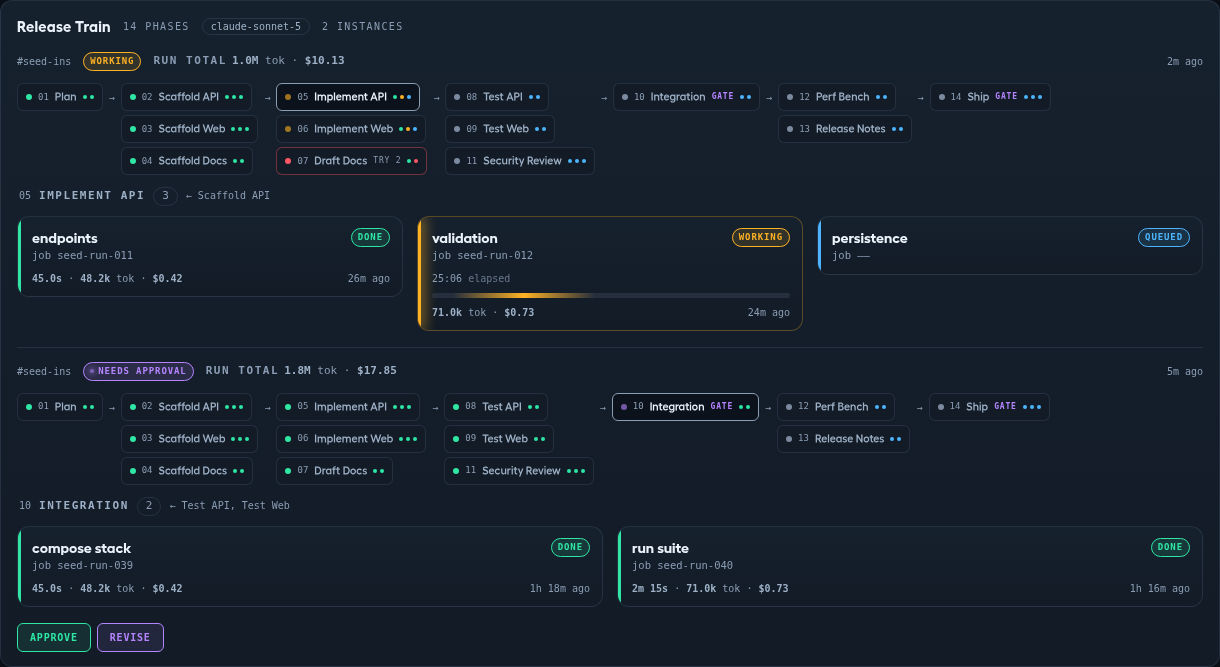
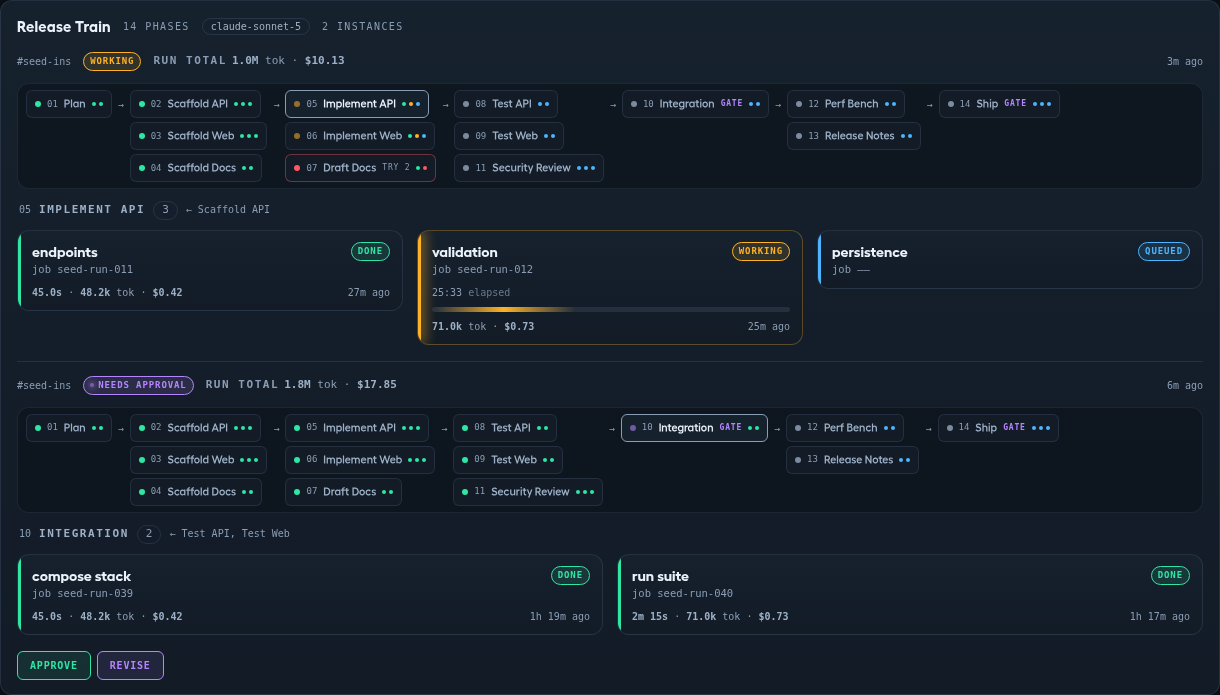
Pack the phase rail into row tiles
A bare CSS wrap breaks the rail wherever it runs out of width and leaves
the break invisible — a continued chain read as chips floating loose
under the first line, with nothing marking where one row ended and the
next began.

The rail now measures its stages and packs them into explicit rows
(pure, tested packing in railLayout.ts), so each row is a real element:
a bordered tile whose edge is the row divider, ending in a faded arrow
when the chain continues in the tile below. Packing happens in a layout
effect before paint, re-runs on container resize and webfont arrival,
and an unmeasured container (first render, jsdom) keeps the single-line
rail. Flex wrap stays on inside each tile as a safety net, so a
measurement a few pixels tight wraps within the tile instead of
clipping.

Claude-Session: https://claude.ai/code/session_015F2CbqX6bwNWc91Ppo2kkJ

diff --git a/web/src/views/PhaseRail.tsx b/web/src/views/PhaseRail.tsx
@@ -1,11 +1,13 @@
+import { useCallback, useEffect, useLayoutEffect, useRef, useState } from "react";
 import type { DsStatus, PhasePill } from "../ds";
 import { DURATION, STATUS, useSyncedDelay } from "../ds";
 import { graphColumns, graphEdges } from "./phaseGraphLayout";
+import { packStages, packedRows } from "./railLayout";
 
 /**
  * The pipeline's shape as the board's overhead: one compact chip per phase,
- * grouped into stages (phases that can run at the same time), in a strip that
- * wraps instead of scrolling.
+ * grouped into stages (phases that can run at the same time), packed into
+ * rows that are each a tile of their own.
  *
  * This is the compression that keeps a 14-phase pipeline to one card-height:
  * the rail carries every phase's status, gate, attempt and step progress at a
@@ -17,6 +19,12 @@ import { graphColumns, graphEdges } from "./phaseGraphLayout";
  * a branching pipeline still reads as branching. Instances that carry no
  * dependency edges at all (authored before Weave) fall back to one stage per
  * phase in order — absent edges mean "unknown", not "all parallel".
+ *
+ * Rows are packed by measurement rather than CSS wrapping: a flex wrap breaks
+ * the line wherever it runs out of width and leaves the break invisible, which
+ * on a long real-world chain read as chips floating loose. Packing the stages
+ * ourselves lets every row be a real element — a bordered tile whose edge *is*
+ * the row divider, with a trailing arrow when the chain continues below.
  */
 
 const PHASE_DOT: Record<DsStatus, string> = {
@@ -28,6 +36,13 @@ const PHASE_DOT: Record<DsStatus, string> = {
   await: "bg-await",
   stopped: "bg-idle",
 };
+
+/** Width the chain costs between two stages on one row: the h-7 arrow box
+ *  (~16px glyph) plus the row's gap on each side. Slightly generous — a row
+ *  that measures a few pixels tight wraps inside its tile instead of clipping. */
+const JOIN_PX = 30;
+/** Row tile horizontal padding + borders, subtracted from the container width. */
+const ROW_CHROME_PX = 22;
 
 function chipTitle(pill: PhasePill, index: number, needNames: string[]): string {
   const bits = [`${index + 1}. ${pill.name} — ${STATUS[pill.status].label.toLowerCase()}`];
@@ -58,10 +73,10 @@ function PhaseChip({
   // Tinted borders only for the states that demand attention while unselected.
   const border =
     pill.status === "failed"
-      ? "border-fail/40 bg-surface hover:bg-ground-2"
+      ? "border-fail/40 bg-surface hover:bg-surface-2"
       : pill.status === "await"
-        ? "border-await/40 bg-surface hover:bg-ground-2"
-        : "border-line bg-surface hover:border-ink-faint/60 hover:bg-ground-2";
+        ? "border-await/40 bg-surface hover:bg-surface-2"
+        : "border-line bg-surface hover:border-ink-faint/60 hover:bg-surface-2";
   return (
     <button
       type="button"
@@ -69,10 +84,10 @@ function PhaseChip({
       aria-pressed={selected}
       title={chipTitle(pill, index, needNames)}
       // One fixed height for every chip (names truncate to one line), so the
-      // top-aligned rail rows read as straight lanes — content-sized heights
-      // made wrapped rails visibly crooked on real data.
+      // top-aligned rows read as straight lanes — content-sized heights made
+      // wrapped rails visibly crooked on real data.
       className={`flex h-7 min-w-0 items-center gap-1.5 rounded-md border px-2 text-left transition-[border-color,background-color] duration-(--duration-quick) ${
-        selected ? "border-ink-faint bg-ground-2" : border
+        selected ? "border-ink-faint bg-surface-2" : border
       }`}
     >
       <span
@@ -120,6 +135,20 @@ function PhaseChip({
   );
 }
 
+/** The h-7 arrow box: fixed to chip height so it centers on the chip row. */
+function Arrow({ trailing = false }: { trailing?: boolean }) {
+  return (
+    <span
+      aria-hidden="true"
+      className={`flex h-7 shrink-0 items-center font-mono text-[10px] ${
+        trailing ? "text-ink-faint/60" : "text-ink-faint"
+      }`}
+    >
+      →
+    </span>
+  );
+}
+
 export function PhaseRail({
   phases,
   selectedId,
@@ -137,42 +166,96 @@ export function PhaseRail({
     graphEdges(phases).length > 0
       ? graphColumns(phases)
       : phases.map((p, i) => ({ depth: i, phases: [p] }));
+
+  const containerRef = useRef<HTMLOListElement>(null);
+  const stageEls = useRef(new Map<number, HTMLOListElement>());
+  // First stage of each visual row. Starts as one row holding everything; the
+  // layout effect below corrects it from real measurements before first paint.
+  const [breaks, setBreaks] = useState<number[]>([0]);
+
+  const pack = useCallback(() => {
+    const container = containerRef.current;
+    if (!container || container.clientWidth === 0) return;
+    const widths: number[] = [];
+    for (let i = 0; i < columns.length; i++) widths.push(stageEls.current.get(i)?.offsetWidth ?? 0);
+    const next = packStages(widths, container.clientWidth - ROW_CHROME_PX, JOIN_PX);
+    setBreaks((prev) =>
+      prev.length === next.length && prev.every((b, i) => b === next[i]) ? prev : next,
+    );
+    // The stage list itself is the effect's real dependency; its length is the
+    // part measurement can see.
+  }, [columns.length]);
+
+  // Before paint, so the corrected rows never flash their unmeasured layout.
+  useLayoutEffect(pack, [pack, phases]);
+  useEffect(() => {
+    const container = containerRef.current;
+    if (!container || typeof ResizeObserver === "undefined") return;
+    const ro = new ResizeObserver(pack);
+    ro.observe(container);
+    // Chip widths change when the webfonts land; ResizeObserver can't see that.
+    document.fonts?.ready.then(pack).catch(() => {});
+    return () => ro.disconnect();
+  }, [pack]);
+
+  const rows = packedRows(breaks, columns.length);
   return (
-    // Top-aligned, not centered: centering set every chip's height off the
-    // tallest stack in its wrap row, which zigzagged the chain on real
-    // pipelines. Top alignment keeps each row a straight lane — the chain runs
-    // along the top edge and a fan-out hangs below it.
     <ol
+      ref={containerRef}
       aria-label="Phases"
       data-testid="phase-rail"
-      className="flex flex-wrap items-start gap-x-1.5 gap-y-2"
+      className="flex min-w-0 flex-col gap-1.5"
     >
-      {columns.map((col, i) => (
-        <li key={col.depth} className="flex min-w-0 items-start gap-1.5">
-          {i > 0 && (
-            // The same fixed height as a chip, so the arrow centers on the
-            // first chip row instead of floating against a taller stack.
-            <span
-              aria-hidden="true"
-              className="flex h-7 items-center font-mono text-[10px] text-ink-faint"
-            >
-              →
-            </span>
-          )}
-          {/* A stage with several phases stacks them, so a fan-out reads
-              vertically between the arrows — the graph, at chip size. */}
-          <ol className="flex min-w-0 flex-col gap-1">
-            {col.phases.map((p) => (
-              <li key={p.id} className="min-w-0">
-                <PhaseChip
-                  pill={p}
-                  index={indexOf.get(p.id) ?? 0}
-                  needNames={p.needs.map((n) => nameOf.get(n) ?? n)}
-                  selected={p.id === selectedId}
-                  onSelect={() => onSelect(p.id)}
-                />
-              </li>
-            ))}
+      {rows.map((row, r) => (
+        <li key={row.start} className="min-w-0">
+          {/* The row tile. Its border is the row divider the bare wrap never
+              had; flex-wrap stays on as a safety net so a measurement that is
+              a few pixels off wraps inside the tile instead of clipping. */}
+          <ol
+            data-testid="rail-row"
+            className="flex min-w-0 flex-wrap items-start gap-x-1.5 gap-y-1.5 rounded-tile border border-line/80 bg-ground-2/70 px-2 py-1.5"
+          >
+            {columns.slice(row.start, row.end).map((col, j) => {
+              const i = row.start + j;
+              const lastInRow = i === row.end - 1;
+              return (
+                <li
+                  key={col.depth}
+                  data-testid="rail-stage"
+                  className="flex min-w-0 shrink-0 items-start gap-1.5"
+                >
+                  {j > 0 && <Arrow />}
+                  {/* A stage with several phases stacks them, so a fan-out
+                      hangs below the chain — the graph, at chip size. The
+                      measurement ref sits on the stack, not the <li>: the
+                      <li> also holds the arrows, whose width the packer
+                      already budgets as `join` — measuring them twice would
+                      shift widths with row membership and oscillate the pack. */}
+                  <ol
+                    ref={(el) => {
+                      if (el) stageEls.current.set(i, el);
+                      else stageEls.current.delete(i);
+                    }}
+                    className="flex min-w-0 flex-col gap-1"
+                  >
+                    {col.phases.map((p) => (
+                      <li key={p.id} className="min-w-0">
+                        <PhaseChip
+                          pill={p}
+                          index={indexOf.get(p.id) ?? 0}
+                          needNames={p.needs.map((n) => nameOf.get(n) ?? n)}
+                          selected={p.id === selectedId}
+                          onSelect={() => onSelect(p.id)}
+                        />
+                      </li>
+                    ))}
+                  </ol>
+                  {/* The chain continues in the next row's tile: say so at the
+                      break instead of leaving the reader to infer it. */}
+                  {lastInRow && r < rows.length - 1 && <Arrow trailing />}
+                </li>
+              );
+            })}
           </ol>
         </li>
       ))}

diff --git a/web/src/views/PhaseRail.test.tsx b/web/src/views/PhaseRail.test.tsx
@@ -81,9 +81,7 @@ describe("PhaseRail", () => {
         onSelect={() => {}}
       />,
     );
-    const rail = screen.getByTestId("phase-rail");
-    // Top-level list items are stages: 2 stages, not 3.
-    const stages = Array.from(rail.children);
+    const stages = screen.getAllByTestId("rail-stage");
     expect(stages).toHaveLength(2);
     expect(stages[1].textContent).toContain("build-a");
     expect(stages[1].textContent).toContain("build-b");
@@ -99,13 +97,13 @@ describe("PhaseRail", () => {
         onSelect={() => {}}
       />,
     );
-    const stages = Array.from(screen.getByTestId("phase-rail").children);
-    expect(stages).toHaveLength(3);
+    expect(screen.getAllByTestId("rail-stage")).toHaveLength(3);
   });
 
-  it("top-aligns rows so a wrapped rail stays straight next to a tall stack", () => {
+  it("renders rows as bordered tiles with straight, top-aligned lanes", () => {
     // Centering set every chip's height off the tallest stack in its wrap
-    // row, which zigzagged the chain on real pipelines.
+    // row, which zigzagged the chain on real pipelines — and a bare CSS wrap
+    // left the row break invisible. Rows are explicit bordered tiles now.
     render(
       <PhaseRail
         phases={[
@@ -117,9 +115,12 @@ describe("PhaseRail", () => {
         onSelect={() => {}}
       />,
     );
-    const rail = screen.getByTestId("phase-rail");
-    expect(rail.className).toContain("items-start");
-    expect(rail.className).not.toContain("items-center");
+    // jsdom measures nothing, so everything packs into the single first row.
+    const rows = screen.getAllByTestId("rail-row");
+    expect(rows).toHaveLength(1);
+    expect(rows[0].className).toContain("border");
+    expect(rows[0].className).toContain("items-start");
+    expect(rows[0].className).not.toContain("items-center");
     // Chips share one fixed height, so the chain reads as a single lane.
     for (const chip of screen.getAllByRole("button")) {
       expect(chip.className).toContain("h-7");

diff --git a/web/src/views/railLayout.ts b/web/src/views/railLayout.ts
@@ -1,0 +1,45 @@
+/**
+ * Packing the phase rail's stages into explicit rows.
+ *
+ * CSS wrapping breaks a flex line wherever it runs out of width, which leaves
+ * the break invisible: a continued chain reads as chips floating loose under
+ * the first line. The rail instead measures its stages and packs them into
+ * rows itself, so each row can be a real element — a tile with a border, a
+ * background, and a continuation arrow — rather than an accident of layout.
+ *
+ * Pure and separate from the component because packing is where the
+ * off-by-ones live: a stage exactly at the limit, a stage wider than the
+ * limit, and a zero-width measurement (jsdom, fonts not ready) all need a
+ * defined answer.
+ */
+
+/**
+ * The index of the first stage of each row.
+ *
+ * `limit` is the row's usable content width; `join` is the width the chain
+ * costs between two stages on one row (the arrow and its gaps). A stage wider
+ * than the limit still gets a row of its own — the row overflows and its
+ * chips truncate, which is the best available reading. A non-positive limit
+ * (unmeasured container) packs everything into one row rather than one row
+ * per stage, so the pre-measurement render is the single-line rail.
+ */
+export function packStages(widths: number[], limit: number, join: number): number[] {
+  const breaks: number[] = widths.length > 0 ? [0] : [];
+  if (limit <= 0) return breaks;
+  let used = 0;
+  for (let i = 0; i < widths.length; i++) {
+    const need = i === breaks[breaks.length - 1] ? widths[i] : used + join + widths[i];
+    if (need > limit && used > 0) {
+      breaks.push(i);
+      used = widths[i];
+    } else {
+      used = need;
+    }
+  }
+  return breaks;
+}
+
+/** The rows themselves, as [start, end) index pairs over the stage list. */
+export function packedRows(breaks: number[], stageCount: number): { start: number; end: number }[] {
+  return breaks.map((start, i) => ({ start, end: breaks[i + 1] ?? stageCount }));
+}

diff --git a/web/src/views/railLayout.test.ts b/web/src/views/railLayout.test.ts
@@ -1,0 +1,40 @@
+import { describe, it, expect } from "vitest";
+import { packStages, packedRows } from "./railLayout";
+
+describe("packStages", () => {
+  it("keeps everything on one row while it fits", () => {
+    expect(packStages([100, 100, 100], 400, 20)).toEqual([0]);
+  });
+
+  it("breaks a row exactly when the join no longer fits", () => {
+    // 100 + 20 + 100 = 220 fits; + 20 + 100 = 340 does not.
+    expect(packStages([100, 100, 100], 250, 20)).toEqual([0, 2]);
+  });
+
+  it("gives a stage wider than the limit a row of its own", () => {
+    expect(packStages([100, 900, 100], 250, 20)).toEqual([0, 1, 2]);
+  });
+
+  it("packs everything into one row when the limit is unmeasured", () => {
+    // Zero/negative limit means the container has not been measured (jsdom,
+    // first render): the answer is the single-line rail, not one row each.
+    expect(packStages([100, 100], 0, 20)).toEqual([0]);
+    expect(packStages([100, 100], -5, 20)).toEqual([0]);
+  });
+
+  it("returns no rows for no stages", () => {
+    expect(packStages([], 400, 20)).toEqual([]);
+  });
+});
+
+describe("packedRows", () => {
+  it("turns break indices into [start, end) pairs", () => {
+    expect(packedRows([0, 2, 5], 7)).toEqual([
+      { start: 0, end: 2 },
+      { start: 2, end: 5 },
+      { start: 5, end: 7 },
+    ]);
+    expect(packedRows([0], 3)).toEqual([{ start: 0, end: 3 }]);
+    expect(packedRows([], 0)).toEqual([]);
+  });
+});
